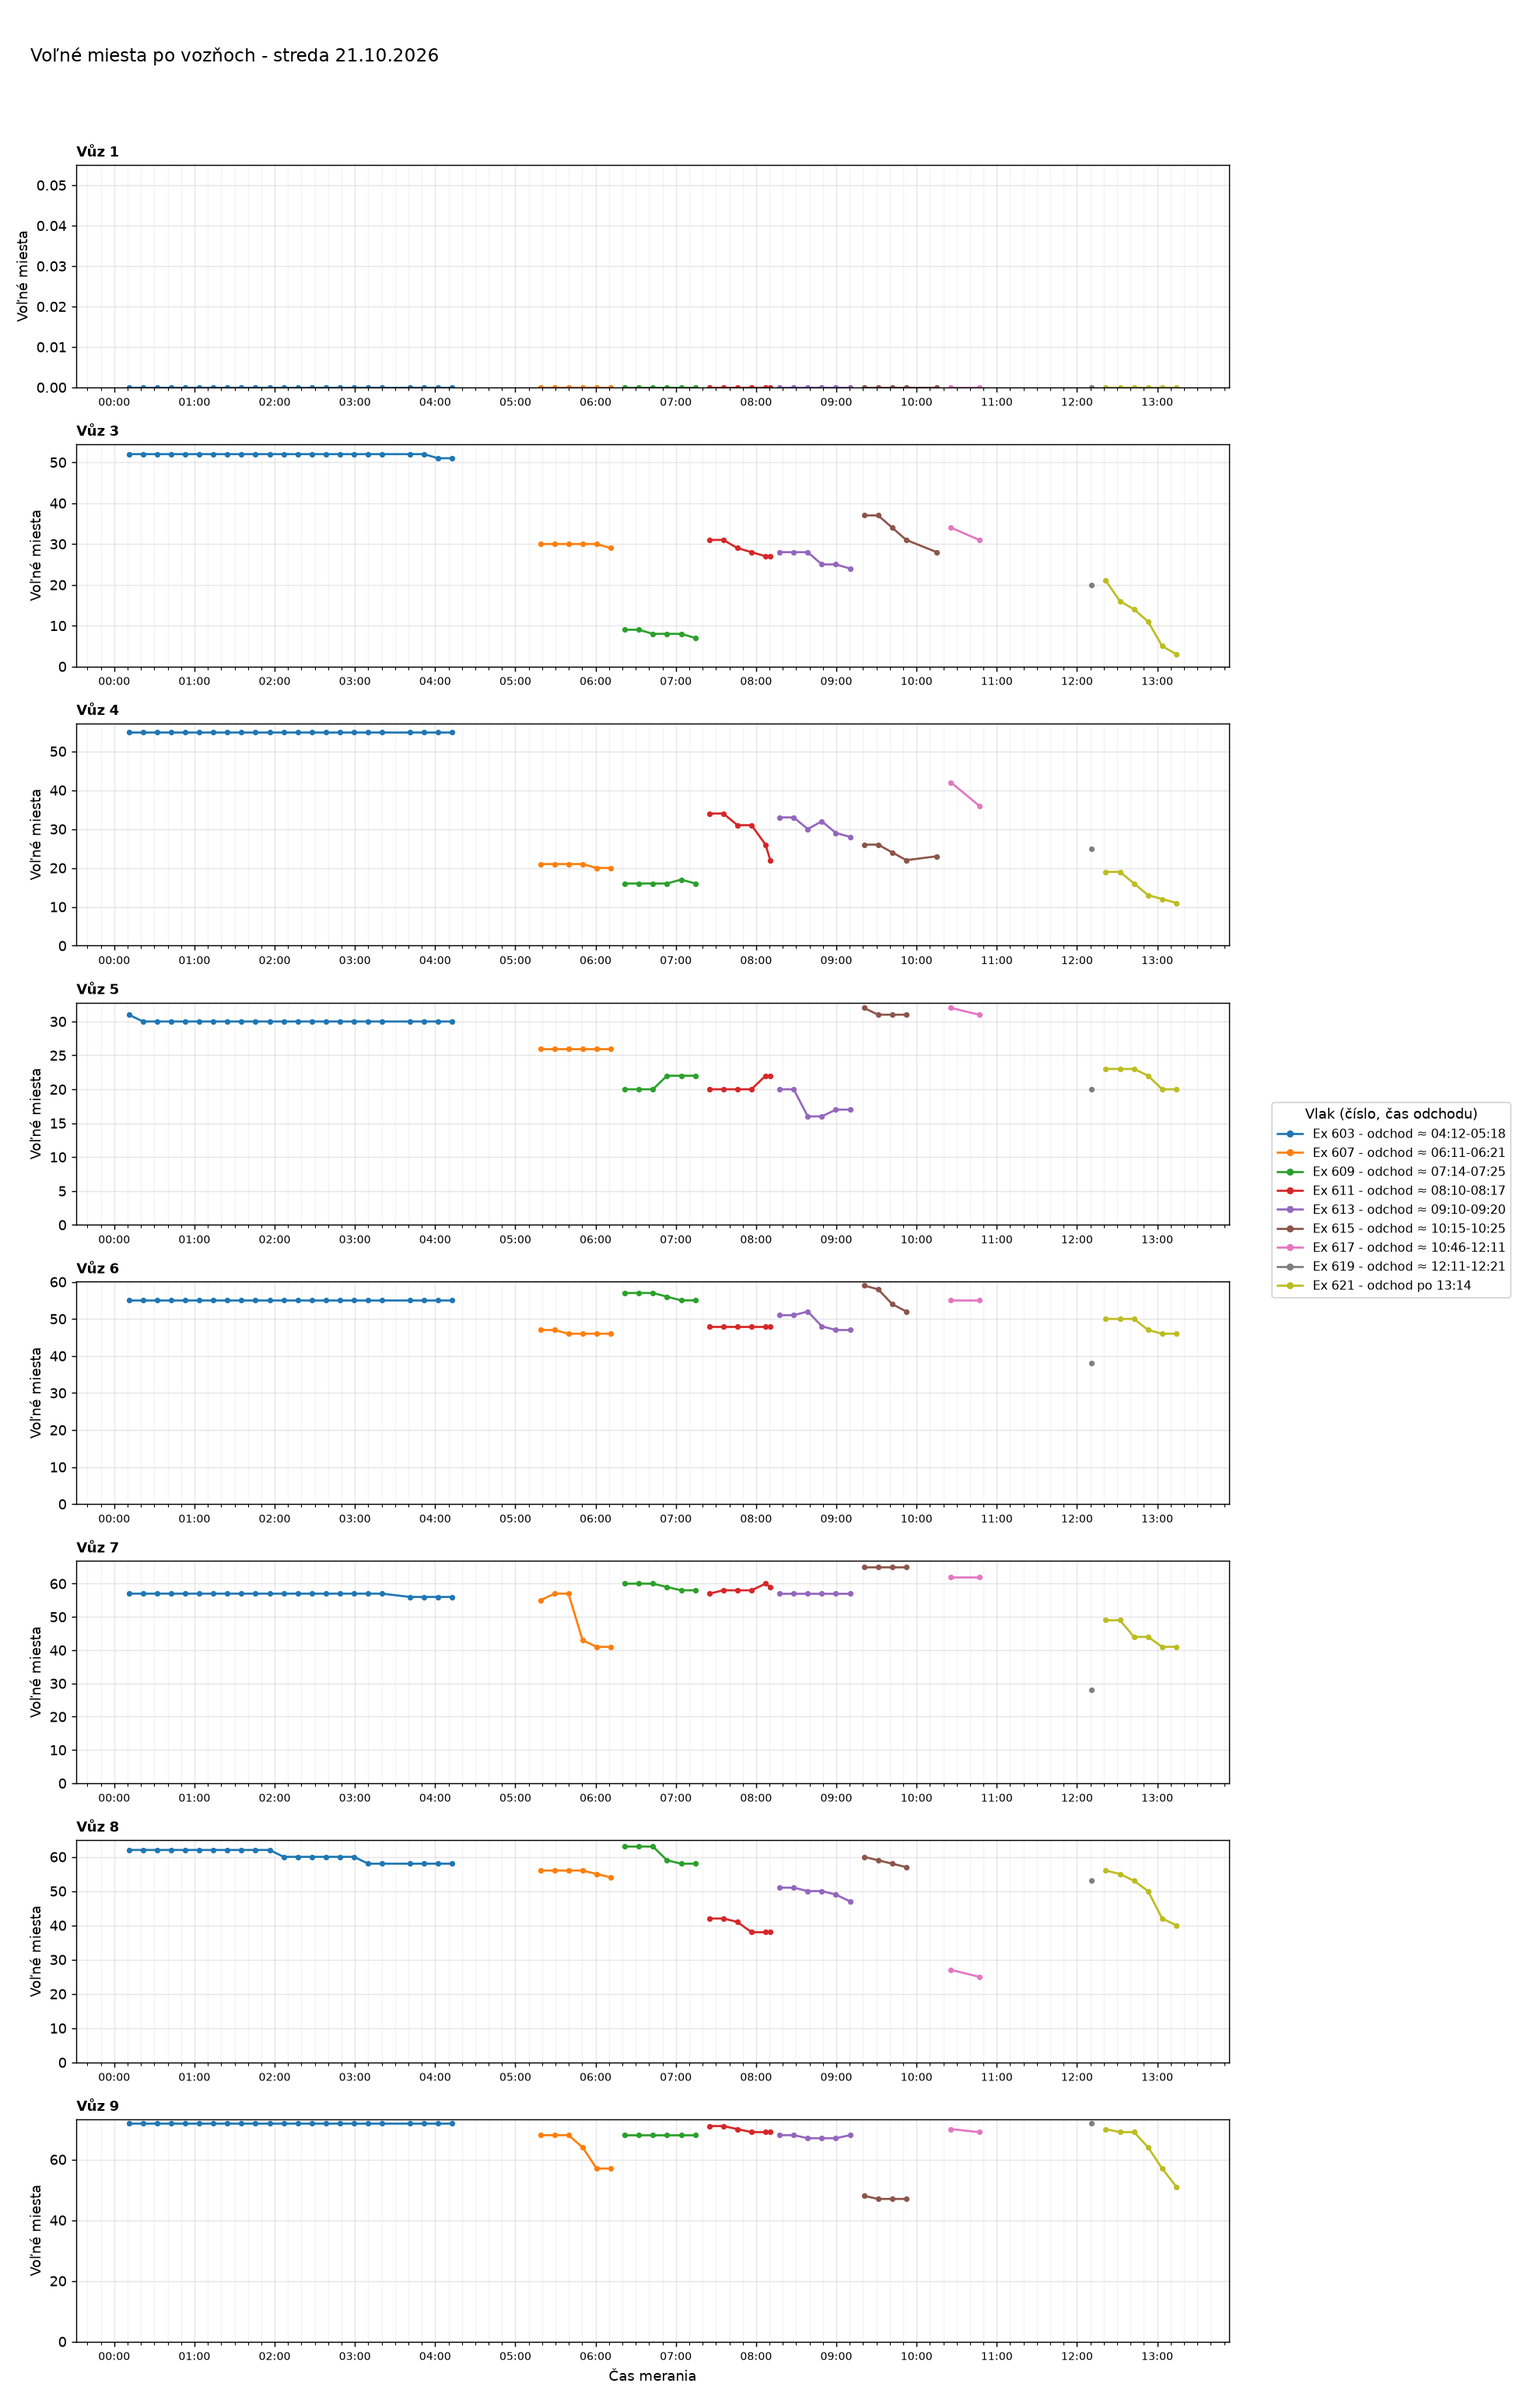
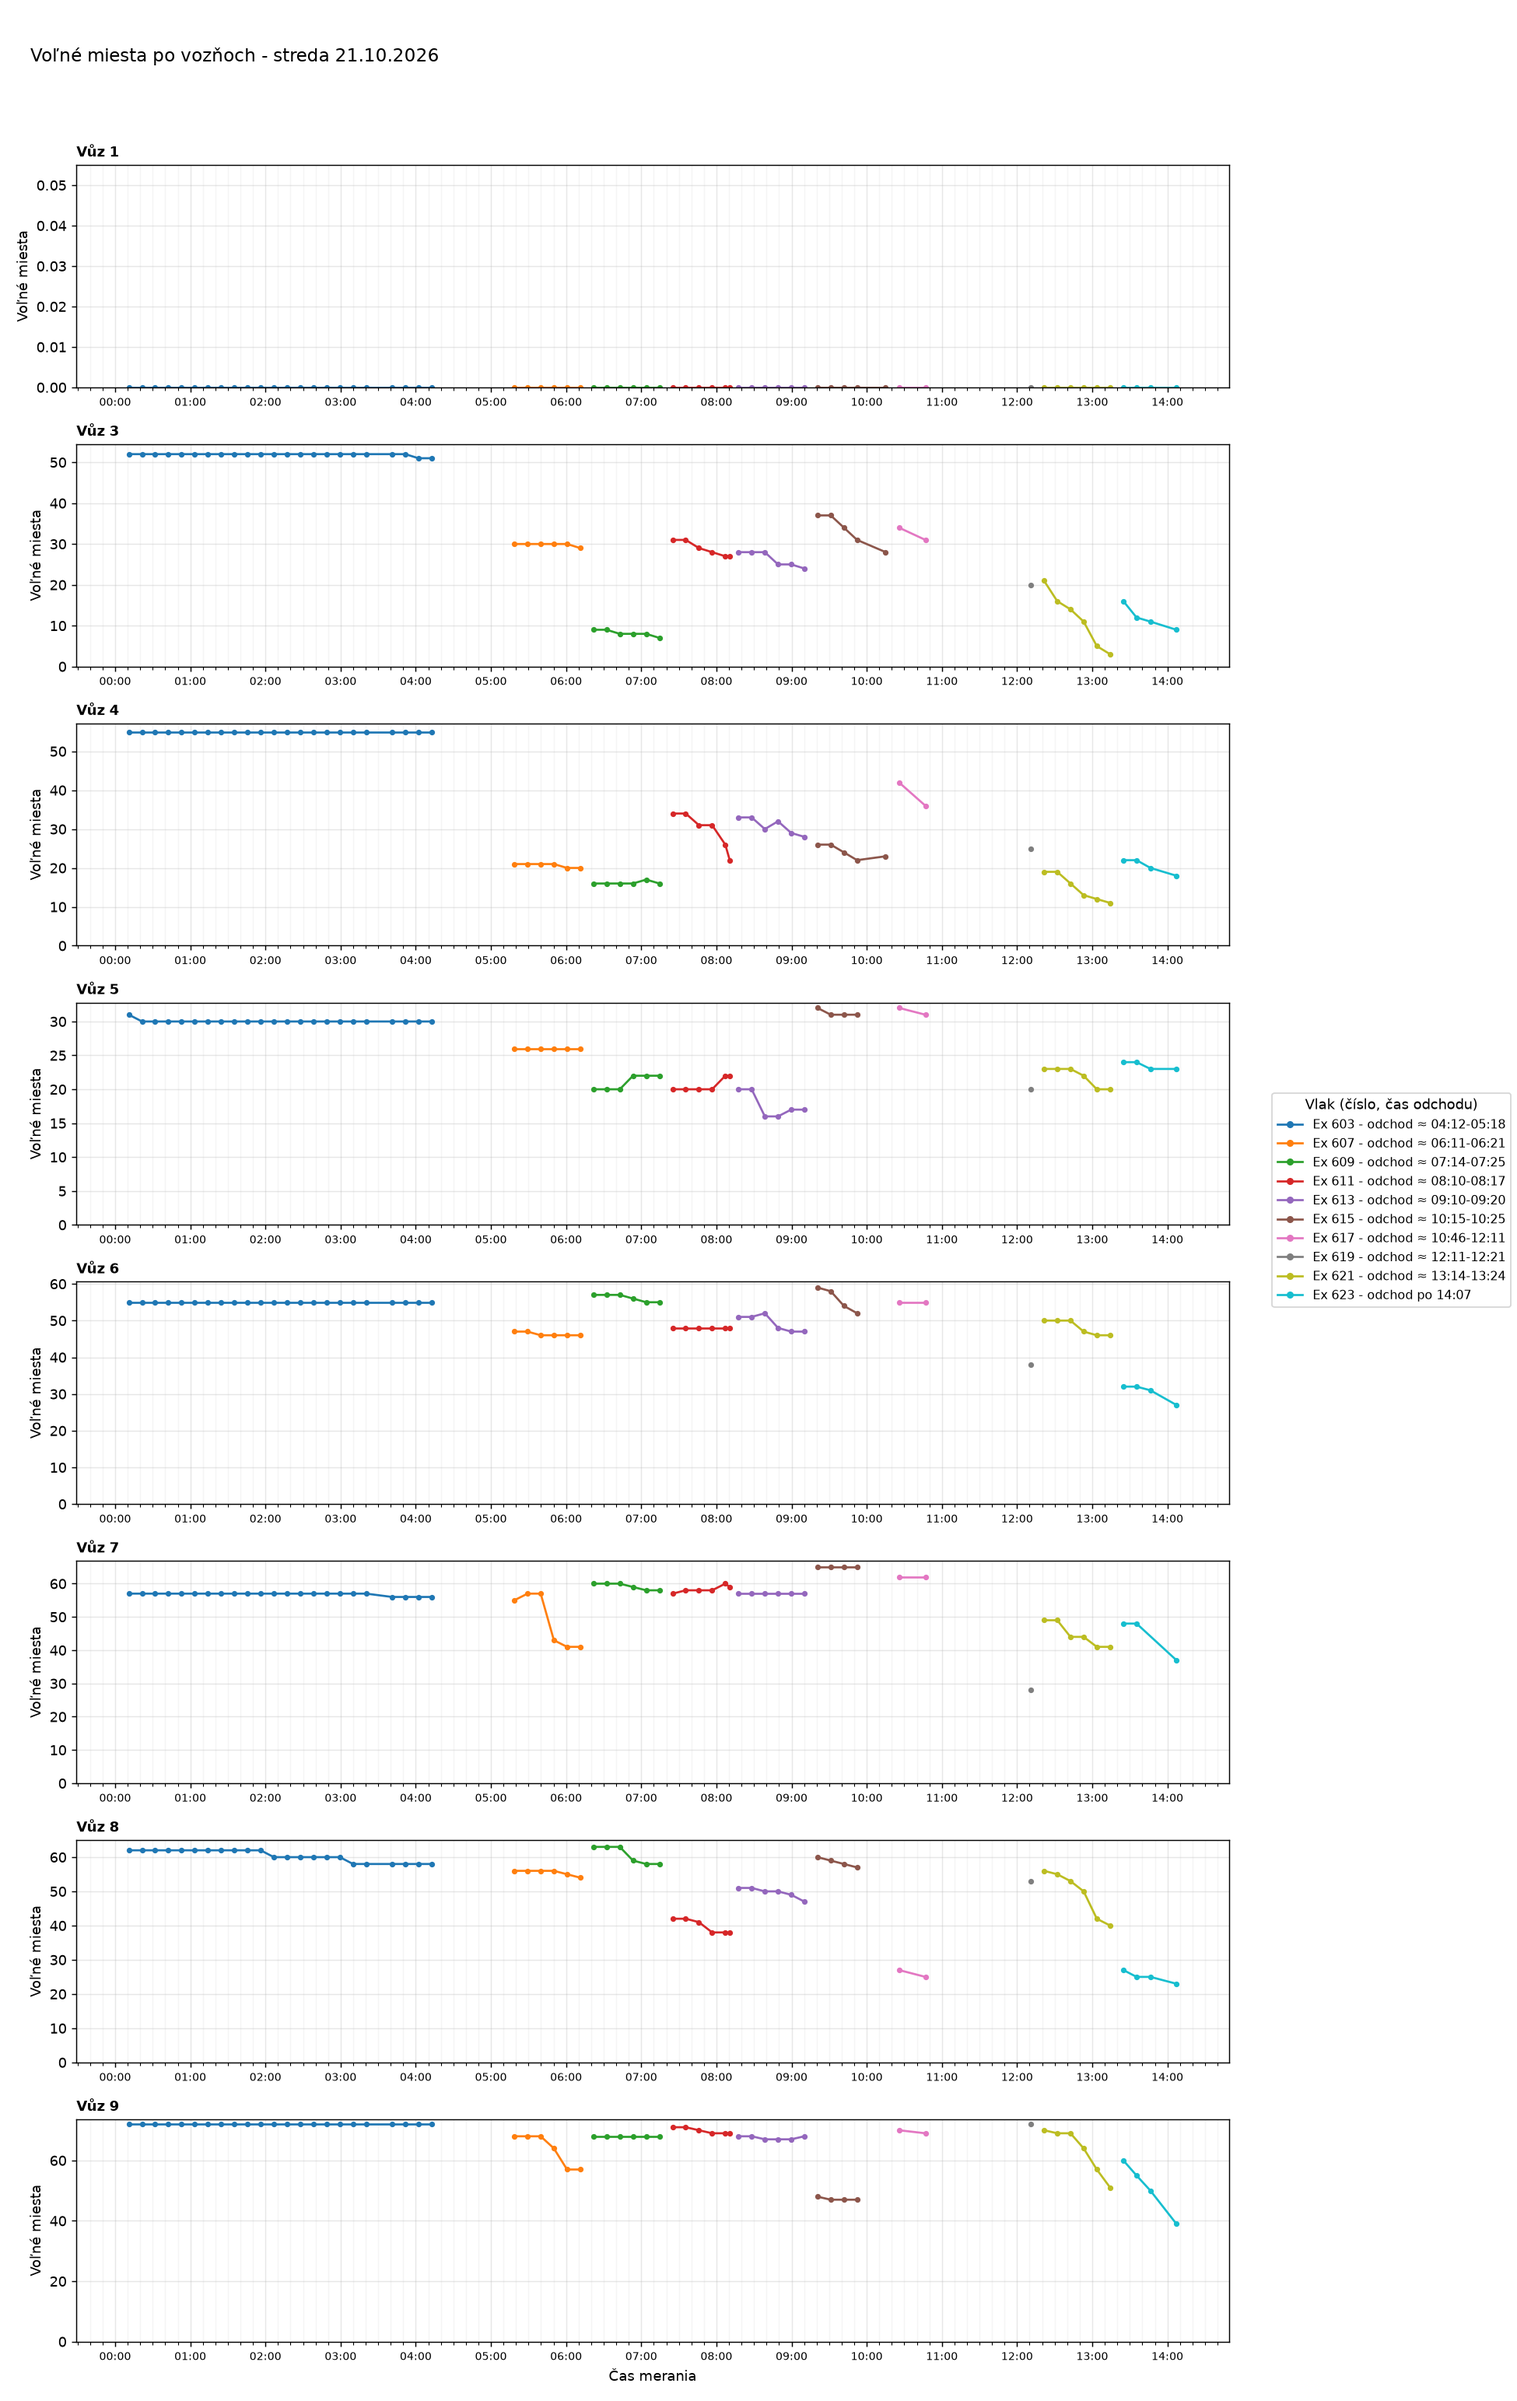
Aktualizácia grafov 2026-10-21 14:23

diff --git a/index.html b/index.html
@@ -30,7 +30,7 @@ img{display:block;width:100%;height:auto;background:#fff;border-radius:6px;
 <body>
 <main>
 <h1>Voľné miesta vo vlakoch</h1>
-<p class="muted">Posledné meranie: 21.10.2026 13:14 ·
+<p class="muted">Posledné meranie: 21.10.2026 14:07 ·
 <a href="data/obsadenost_data.csv">stiahnuť dáta (CSV)</a></p>
 
 <section class="card">
@@ -38,7 +38,7 @@ img{display:block;width:100%;height:auto;background:#fff;border-radius:6px;
 <div class="tablewrap"><table>
 <thead><tr><th>Deň</th><th>Meraní</th><th>Vlakov</th><th>Čas meraní</th></tr></thead>
 <tbody>
-<tr><td><a href="#d2026-10-21">streda 21.10.2026</a></td><td>61</td><td>9</td><td>00:10-13:14</td></tr>
+<tr><td><a href="#d2026-10-21">streda 21.10.2026</a></td><td>65</td><td>10</td><td>00:10-14:07</td></tr>
 <tr><td><a href="#d2026-10-20">utorok 20.10.2026</a></td><td>34</td><td>7</td><td>13:55-23:50</td></tr>
 </tbody></table></div>
 </section>
